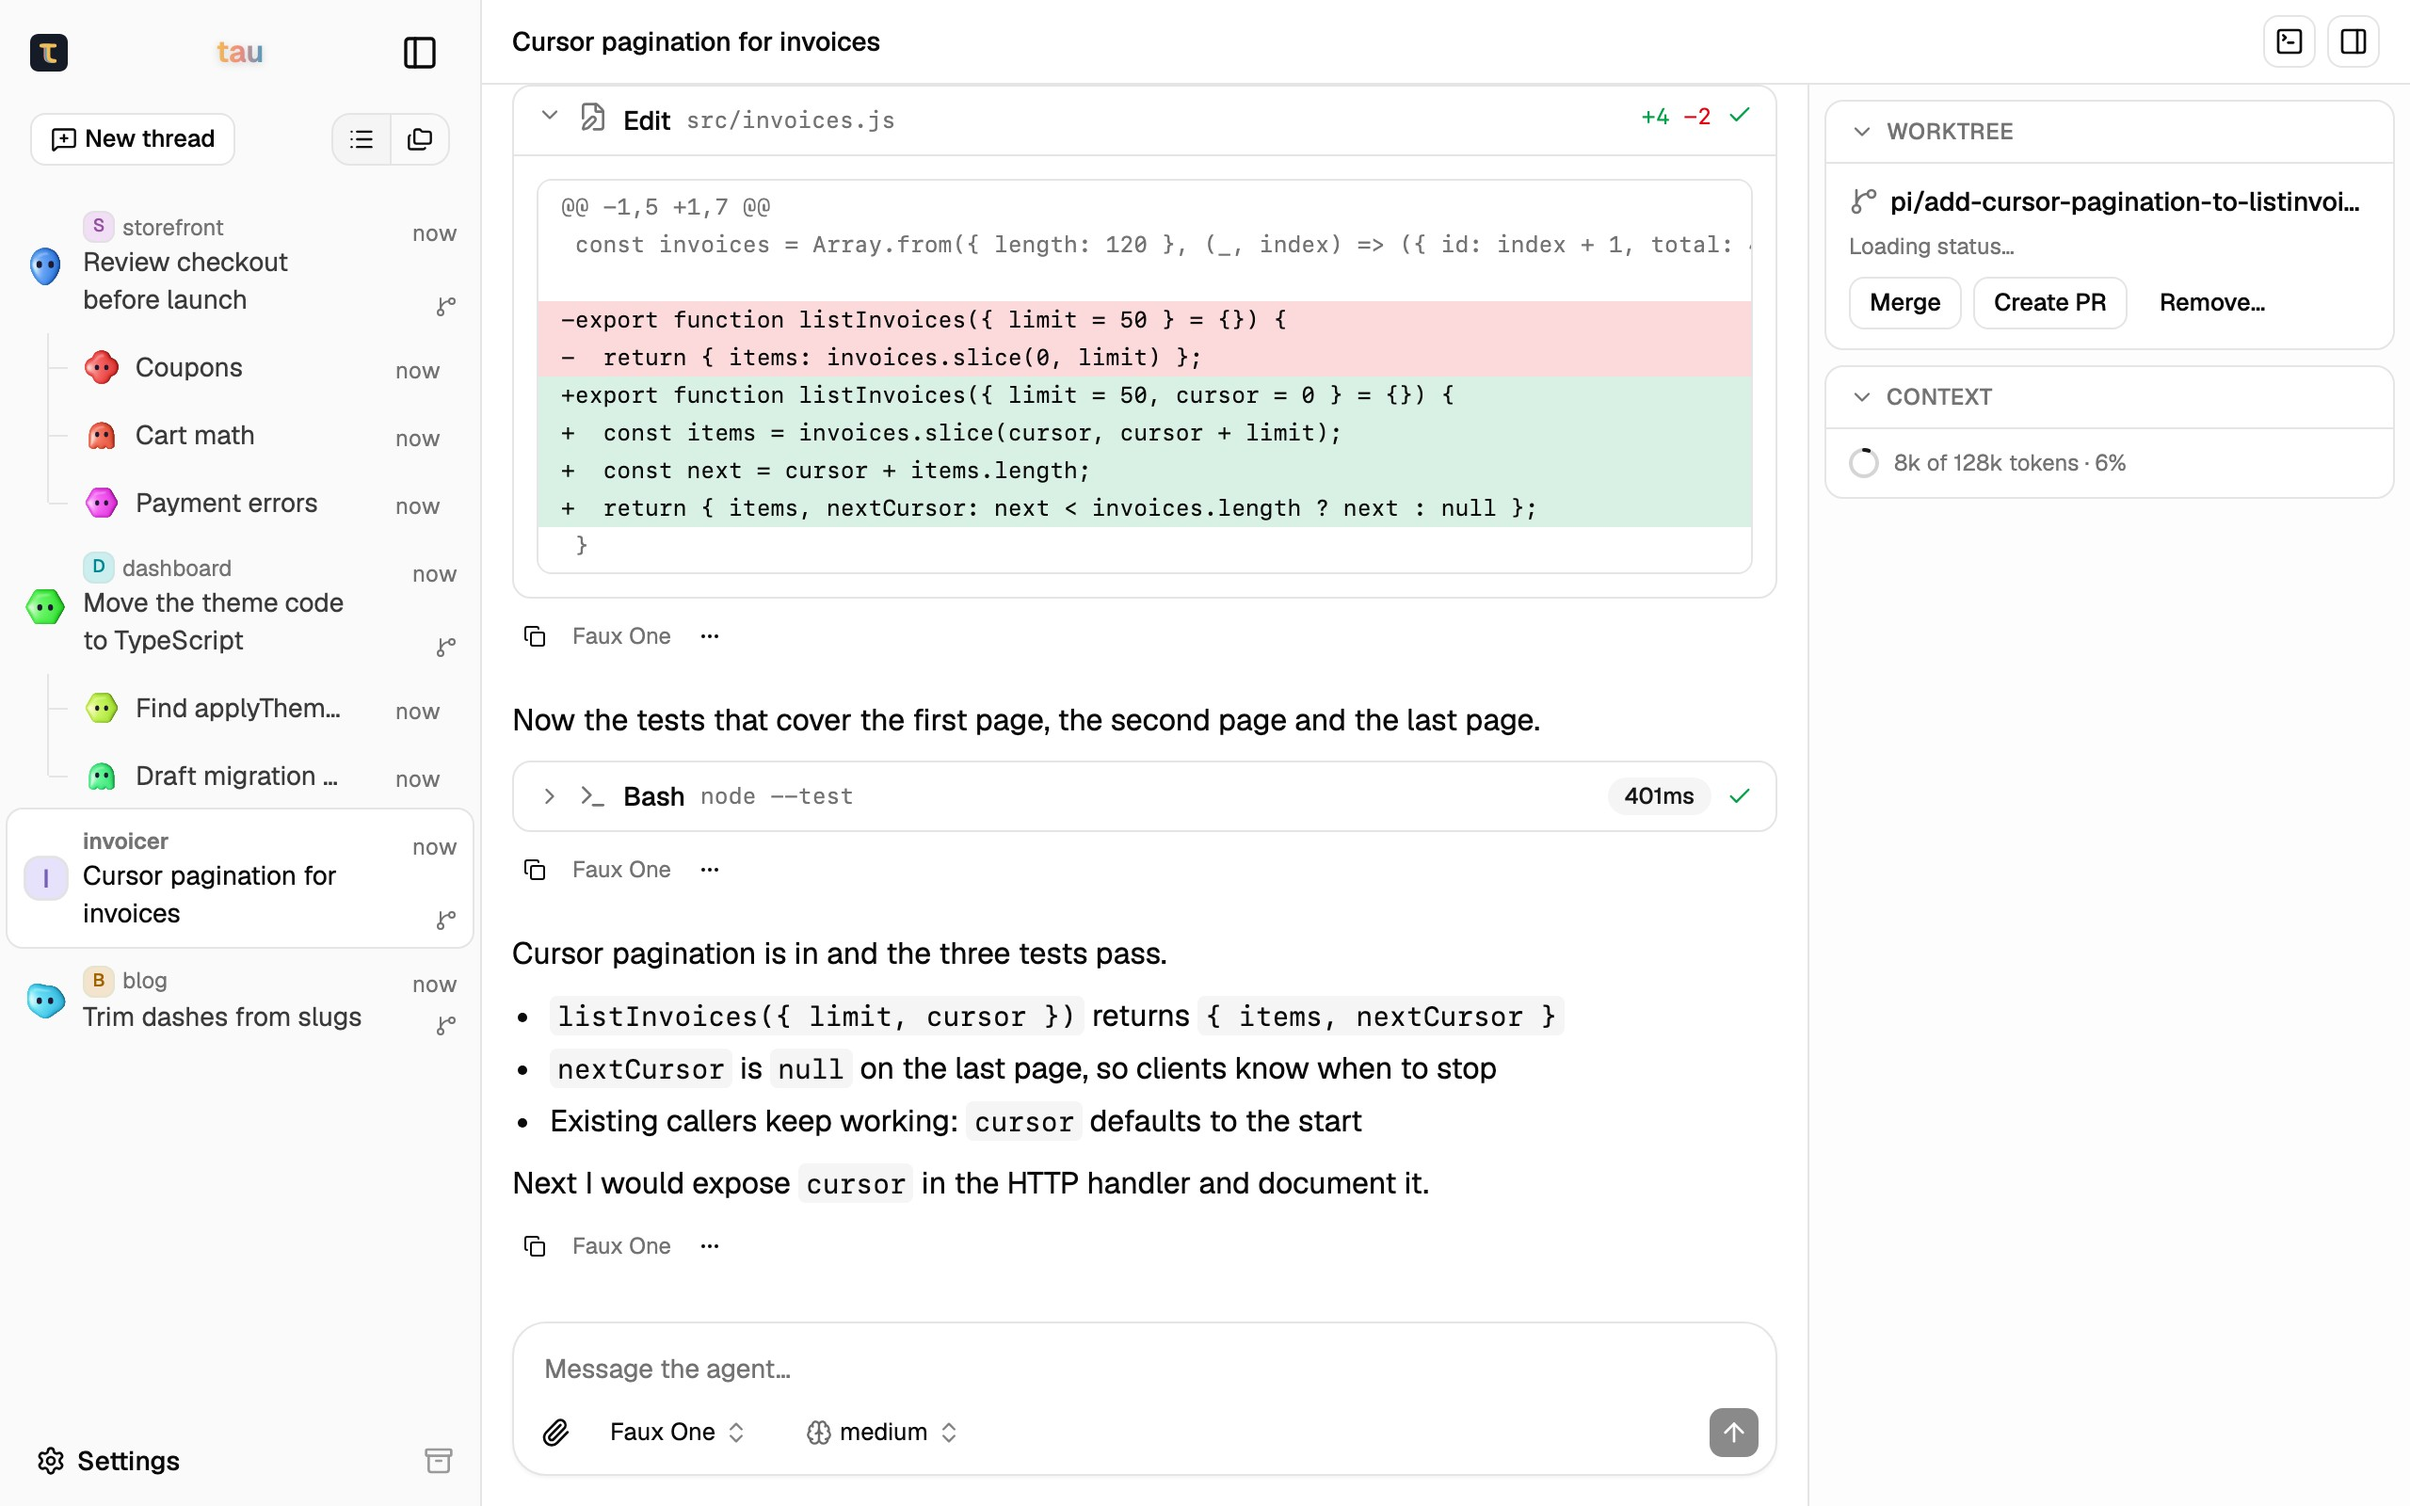
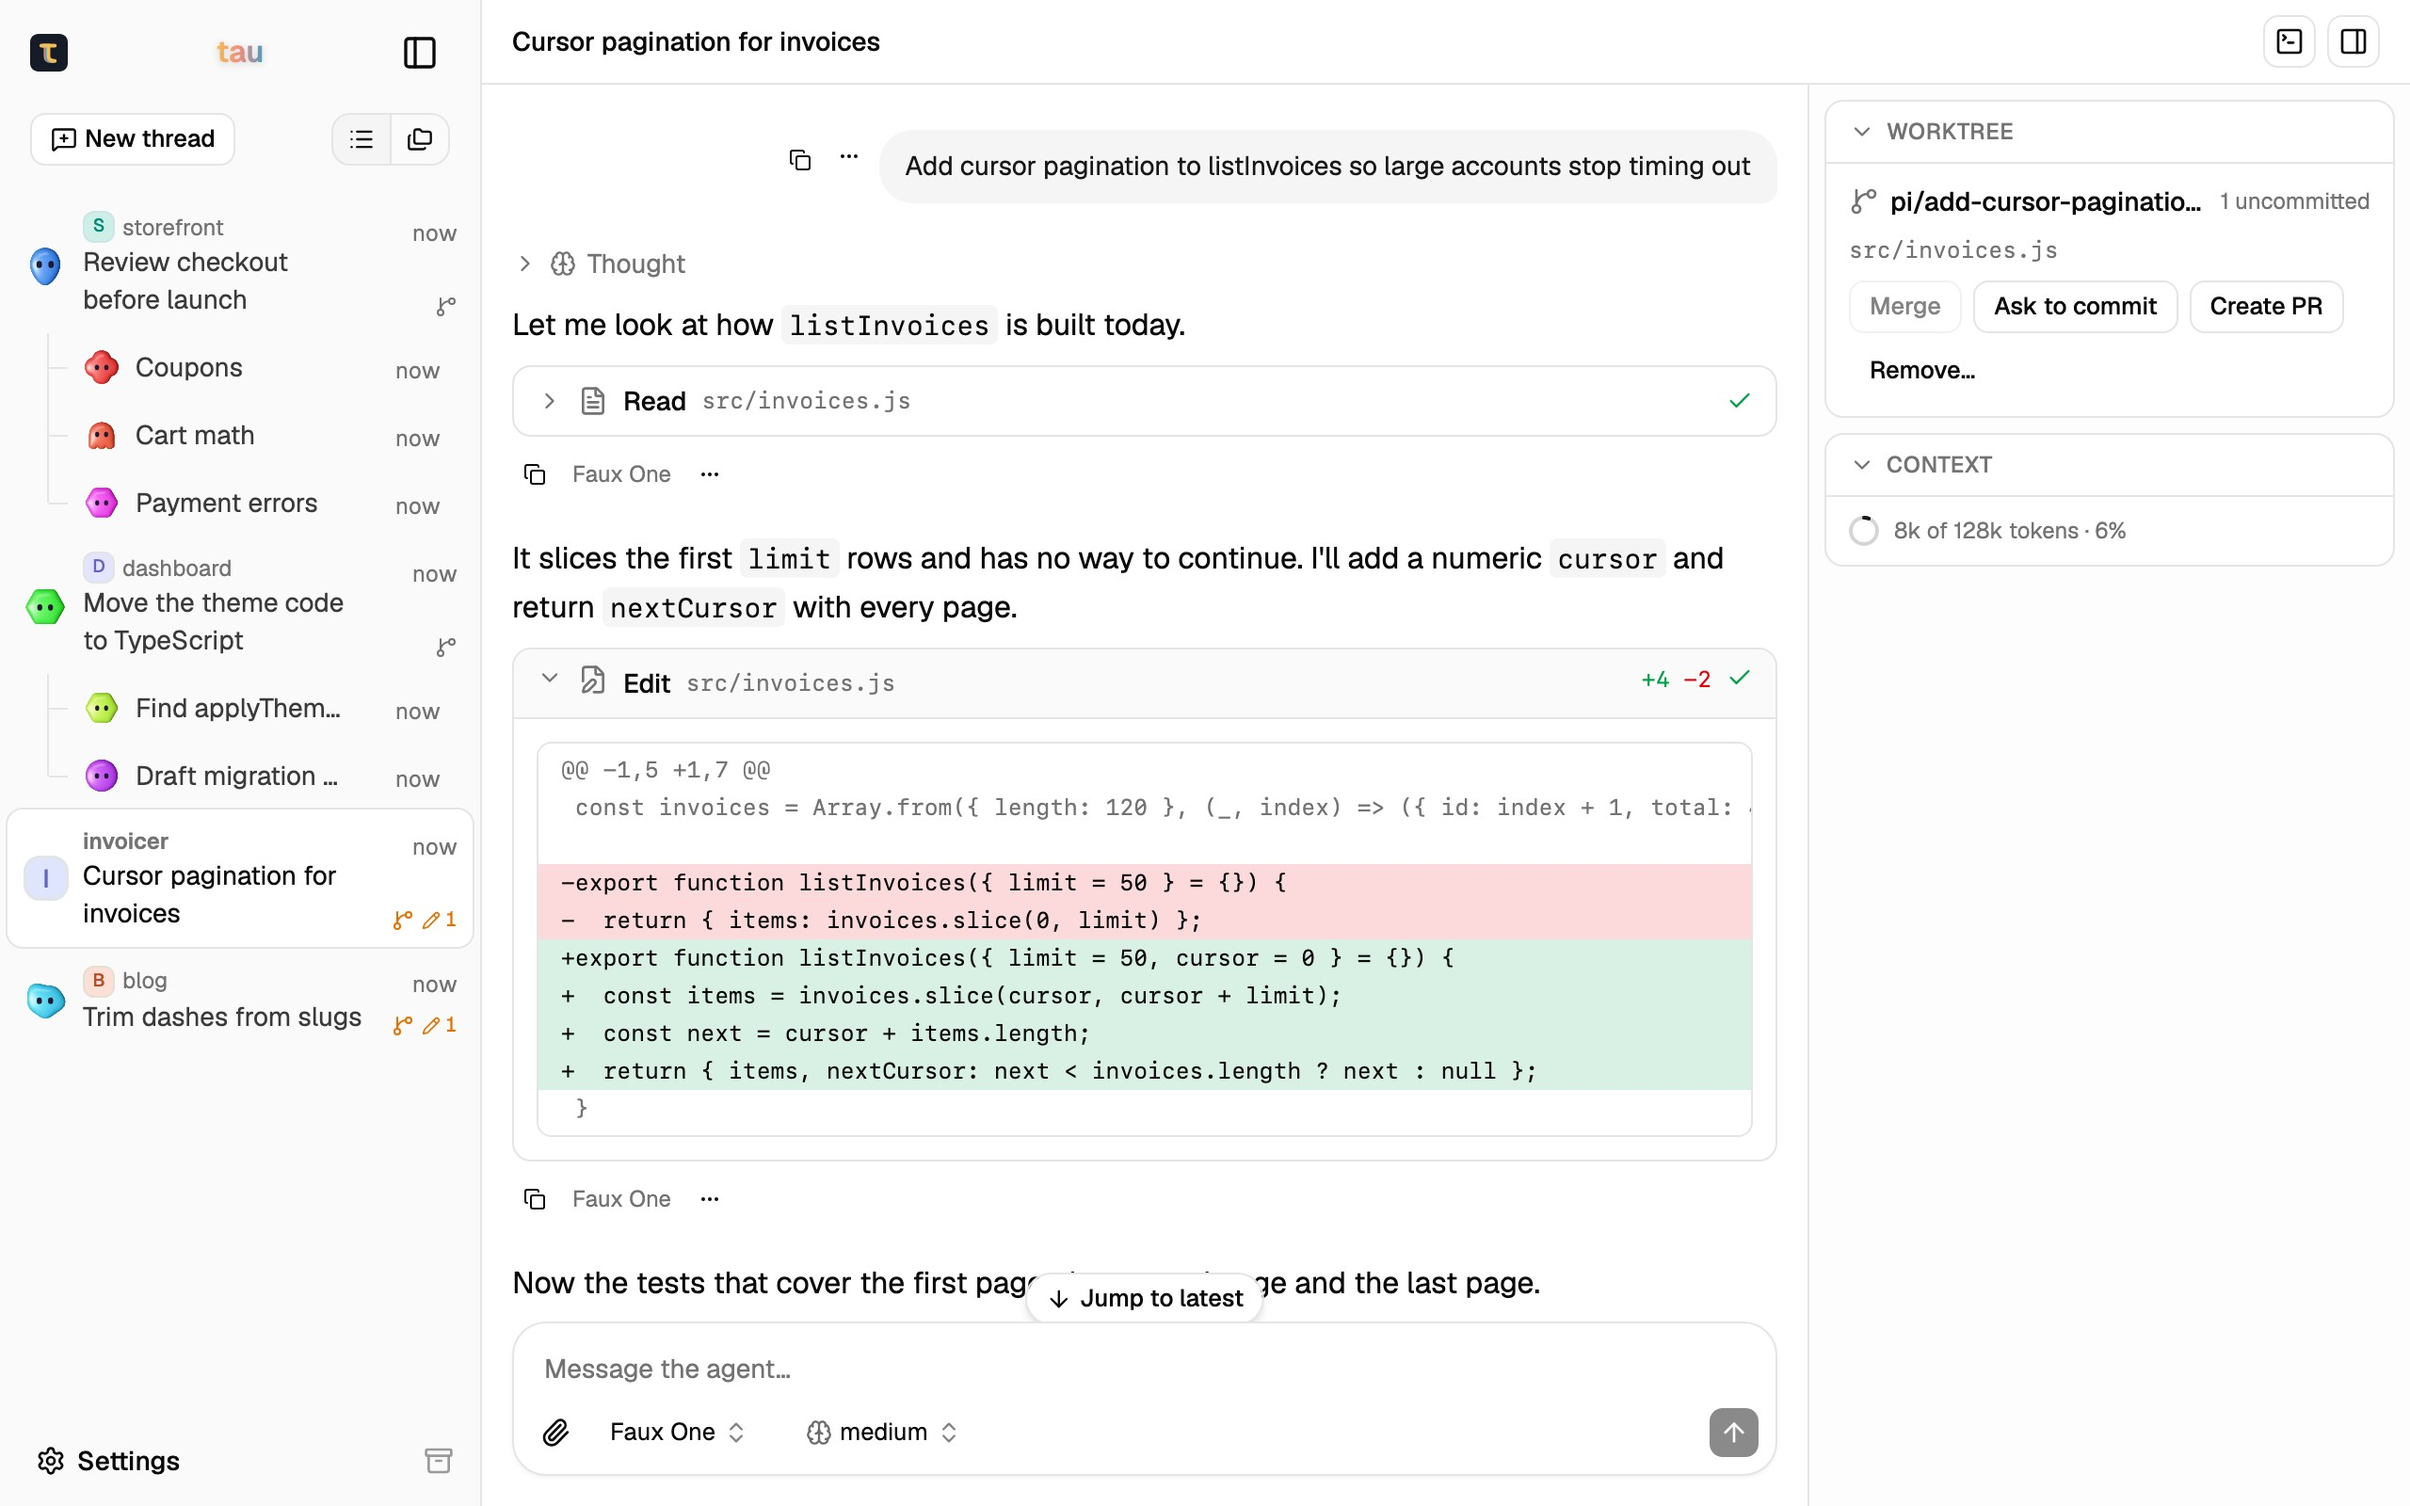
Center mobile composer toolbar row to match the button row

diff --git a/packages/web/src/conversation/Composer.tsx b/packages/web/src/conversation/Composer.tsx
@@ -467,7 +467,7 @@ function ComposerForm({
             </Tooltip>
           </div>
         ) : null}
-        <div className="flex flex-wrap items-center gap-1 sm:flex-nowrap">
+        <div className="flex flex-wrap items-center gap-1 max-sm:justify-center sm:flex-nowrap">
           {bangMode ? null : toolbarStart}
           {bangMode ? null : (
             <>
@@ -499,7 +499,7 @@ function ComposerForm({
             </>
           )}
           {bangMode ? null : (
-            <div className="order-last flex w-full min-w-0 flex-wrap items-center gap-x-2 gap-y-1 sm:order-none sm:w-auto sm:flex-1">
+            <div className="order-last flex w-full min-w-0 flex-wrap items-center gap-x-2 gap-y-1 max-sm:justify-center sm:order-none sm:w-auto sm:flex-1">
               {toolbar}
             </div>
           )}
@@ -508,7 +508,7 @@ function ComposerForm({
               Staging…
             </span>
           ) : null}
-          {hint ? <div className="ml-auto min-w-0 truncate sm:ml-0 sm:shrink-0">{hint}</div> : null}
+          {hint ? <div className="min-w-0 truncate sm:shrink-0">{hint}</div> : null}
           <div className="flex shrink-0 items-center gap-1 max-sm:ml-1">
             {busy && onStop ? (
               <Tooltip>
